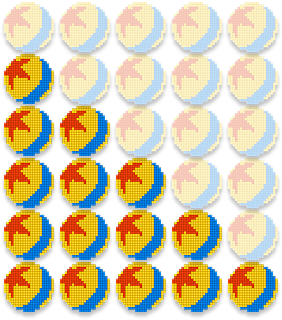
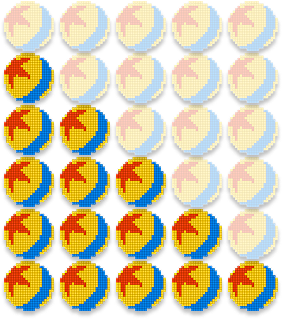
level 1 pronto

diff --git a/ToyAscension/Level1.cpp b/ToyAscension/Level1.cpp
@@ -82,8 +82,8 @@ void Level1::Init()
         scene->Add(obj, STATIC);
 
     // Player
-    buzz = new Player(true, 'R', "Resources/buzz.png", scene, this);
-    zurg = new Player(false, 'L', "Resources/zurg.png", scene, this);
+    buzz = new Player(true, 'R', "Resources/buzz.png", scene);
+    zurg = new Player(false, 'L', "Resources/zurg.png", scene);
 
     scene->Add(buzz, MOVING);
     scene->Add(zurg, MOVING);
@@ -123,8 +123,29 @@ void Level1::Init()
 
     // Tela de score
     scoreBg = new Sprite("Resources/background/backg-score.png");
-    scoreBuzz = new TileSet("Resources/background/points.png", 274, 50, 1, 6);
-    scoreZurge = new TileSet("Resources/background/points.png", 274, 50, 1, 6);
+    scoreBuzz = new TileSet("Resources/score/points.png", 274, 52, 1, 6);
+    scoreZurg = new TileSet("Resources/score/points.png", 274, 52, 1, 6);
+
+    scoreBuzzAnim = new Animation(scoreBuzz, 0.0f, false);
+    scoreZurgAnim = new Animation(scoreZurg, 0.0f, false);
+
+	scoreBuzzAnim->Add(1, new uint[1]{ 1 }, 1);
+	scoreBuzzAnim->Add(2, new uint[1]{ 2 }, 1);
+	scoreBuzzAnim->Add(3, new uint[1]{ 3 }, 1);
+	scoreBuzzAnim->Add(4, new uint[1]{ 4 }, 1);
+	scoreBuzzAnim->Add(5, new uint[1]{ 5 }, 1);
+	scoreBuzzAnim->Add(0, new uint[1]{ 0 }, 1);
+
+    scoreZurgAnim->Add(5, new uint[1]{ 5 }, 1);
+    scoreZurgAnim->Add(4, new uint[1]{ 4 }, 1);
+    scoreZurgAnim->Add(3, new uint[1]{ 3 }, 1);
+    scoreZurgAnim->Add(2, new uint[1]{ 2 }, 1);
+    scoreZurgAnim->Add(1, new uint[1]{ 1 }, 1);
+    scoreZurgAnim->Add(0, new uint[1]{ 0 }, 1);
+
+    // Zerar pontuação do ToyAscencion.h
+	ToyAscension::buzzPoints = 0;
+	ToyAscension::zurgPoints = 0;
 }
 
 // ------------------------------------------------------------------------------
@@ -163,7 +184,7 @@ void Level1::Update()
         return;
     }
 
-	if (window->KeyPress('P'))
+	if (window->KeyPress('P') || game_ended)
     {
         ToyAscension::NextLevel<GameOver>();
         return;
@@ -183,8 +204,11 @@ void Level1::Draw()
     if (ToyAscension::viewBBox)
         scene->DrawBBox();
 
-	if (paused)
+    if (paused) {
 		scoreBg->Draw(window->CenterX(), window->CenterY(), Layer::FRONT);
+        scoreBuzzAnim->Draw(697.0f, 344.0f, Layer::FRONT);
+		scoreZurgAnim->Draw(697.0f, 428.0f, Layer::FRONT);
+    }
 }
 
 // ------------------------------------------------------------------------------
@@ -208,4 +232,15 @@ void Level1::Hit() {
 
 	buzz->dead = false;
 	zurg->dead = false;
+
+	scoreBuzzAnim->Select(buzz->kill_count);
+	scoreZurgAnim->Select(zurg->kill_count);
+
+	// Atualiza pontuação no ToyAscension.h
+    ToyAscension::buzzPoints = buzz->kill_count;
+    ToyAscension::zurgPoints = zurg->kill_count;
+
+    if (buzz->kill_count == 5 || zurg->kill_count == 5){
+        game_ended = true;
+    }
 }

diff --git a/ToyAscension/Player.cpp b/ToyAscension/Player.cpp
@@ -6,15 +6,15 @@
 
 // --------------------------------------------------------------------------------
 
-Player::Player(bool keyboard, char looking_side, std::string file_name, Scene* currScene, Game* currentLevel)
+Player::Player(bool keyboard, char initial_side, std::string file_name, Scene* currScene)
 {
 	this->currentScene = currScene;
-	this->currentLevel = currentLevel;
 
 	barrier = new Sprite("Resources/Barrier.png");
 	// Parametrization setup
 	this->keyboard = keyboard;
-	this->looking_side = looking_side;
+	this->looking_side = initial_side;
+	this->initial_side = initial_side;
 
 	if (!keyboard) {
 		// Controller
@@ -57,8 +57,8 @@ Player::Player(bool keyboard, char looking_side, std::string file_name, Scene* c
 
 	BBox(new Poly(playerVertexs, 4));
 
-	if (looking_side == 'L') {
-		MoveTo(700.0f, 400.0f, Layer::FRONT);
+	if (initial_side == 'L') {
+		MoveTo(750.0f, 400.0f, Layer::FRONT);
 		anim->Select(IDLE_RIGHT);
 	}
 	else {
@@ -95,16 +95,14 @@ Player::~Player()
 void Player::Reset()
 {
     // volta ao estado inicial
-	if (looking_side == 'L') {
-		MoveTo(700.0f, 400.0f, Layer::FRONT);
+	if (initial_side == 'L') {
+		MoveTo(750.0f, 400.0f, Layer::FRONT);
 		anim->Select(IDLE_RIGHT);
 	}
 	else {
 		MoveTo(565.0f, 400.0f, Layer::FRONT);
 		anim->Select(IDLE_LEFT);
 	}
-
-	paused = true;
 }
 
 // ---------------------------------------------------------------------------------
@@ -115,6 +113,8 @@ void Player::OnCollision(Object* obj)
 		OutputDebugString("Player hit by projectile!\n");
 		if (shield) {
 			shield = false;
+			Projectile* projectile = static_cast<Projectile*>(obj);
+			currentScene->Delete(projectile, MOVING);
 		}
 		else {
 			Projectile* projectile = static_cast<Projectile*>(obj);
@@ -381,26 +381,23 @@ void Player::Update()
 
 			BBox(new Poly(playerVertexs, 4));
 		}
-
-		anim->NextFrame();
-
-		
 	}
-// Teletransporte horizontal do player
-		if (X() < -20) {
-			MoveTo(1300, Y()); // Saiu pela esquerda, aparece à direita
+
+	// Teletransporte horizontal do player
+	if (X() < -20) {
+		MoveTo(1300, Y()); // Saiu pela esquerda, aparece à direita
+	}
+	else if (X() > 1300) {
+		if (Y() > 800) {
+			MoveTo(0, Y() - 120); // Saiu pela direita, aparece à esquerda
 		}
-		else if (X() > 1300) {
-			if (Y() > 800) {
-				MoveTo(0, Y() - 120); // Saiu pela direita, aparece à esquerda
-			}
-			else {
-				MoveTo(0, Y()); // Saiu pela direita, aparece à esquerda
-			}
+		else {
+			MoveTo(0, Y()); // Saiu pela direita, aparece à esquerda
+		}
 			
-		}
+	}
 
-
+	anim->NextFrame();
 }
 
 // ---------------------------------------------------------------------------------

diff --git a/ToyAscension/GameOver.cpp b/ToyAscension/GameOver.cpp
@@ -13,10 +13,12 @@ void GameOver::Init()
 	font = new Font("Resources/font/Tahoma14.png");
 	font->Spacing("Resources/font/Tahoma14.dat");
 
-	buzz = 5;
-	zurg = 2;
+	buzzPoints = ToyAscension::buzzPoints;
+	zurgPoints = ToyAscension::zurgPoints;
+	buzzPowers = ToyAscension::buzzPower;
+	zurgPowers = ToyAscension::zurgPower;
 
-	if (buzz > zurg) {
+	if (buzzPoints > zurgPoints) {
 		backg = new Sprite("Resources/score/buzz-wins.png");
 	}
 	else {
@@ -30,8 +32,8 @@ void GameOver::Init()
 void GameOver::Update()
 {
 	if (window->KeyPress(VK_ESCAPE)) {
-		//ToyAscension::NextLevel<Home>();
-		Engine::Next<Home>();
+		ToyAscension::NextLevel<Home>();
+		//Engine::Next<Home>();
 		return;
 	}
 }
@@ -43,9 +45,11 @@ void GameOver::Draw()
 	Color white{ 1.0f, 1.0f, 1.0f, 1.0f };
 
 	backg->Draw(window->CenterX(), window->CenterY(), Layer::BACK);
-	font->Draw(559, 505, std::to_string(buzz), white, Layer::FRONT, 1.5f);
-	font->Draw(895, 505, std::to_string(zurg), white, Layer::FRONT, 1.5f);
+	font->Draw(545, 505, std::to_string(buzzPoints), white, Layer::FRONT, 1.5f);
+	font->Draw(880, 505, std::to_string(zurgPoints), white, Layer::FRONT, 1.5f);
 
+	font->Draw(575, 550, std::to_string(buzzPowers), white, Layer::FRONT, 1.5f);
+	font->Draw(915, 550, std::to_string(zurgPowers), white, Layer::FRONT, 1.5f);
 }
 
 void GameOver::Finalize()

diff --git a/ToyAscension/ToyAscension.cpp b/ToyAscension/ToyAscension.cpp
@@ -22,6 +22,11 @@ Font* ToyAscension::font = nullptr;            // fonte para texto
 TileSet* ToyAscension::exploSet = nullptr; // explosao
 bool ToyAscension::viewBBox = false;              // estado da bounding box
 
+uint ToyAscension::buzzPoints = 0; // pontuação do buzz
+uint ToyAscension::zurgPoints = 0; // pontuação do zurg
+uint ToyAscension::buzzPower = 0; // power up do buzz
+uint ToyAscension::zurgPower = 0; // power up do zurg
+
 int windowWidth = GetSystemMetrics(SM_CXSCREEN);  // largura da janela
 int windowHeight = GetSystemMetrics(SM_CYSCREEN); // altura da janela
 
@@ -90,7 +95,7 @@ int APIENTRY WinMain(_In_ HINSTANCE hInstance, _In_opt_ HINSTANCE hPrevInstance,
     Engine* engine = new Engine();
 
     // configura motor
-    //engine->window->Mode(WINDOWED);
+    engine->window->Mode(WINDOWED);
     engine->window->Size(1280,1024);
     engine->window->Color(25, 25, 25);
     engine->window->Title("ToyAscension");

diff --git a/ToyAscension/Level1.h b/ToyAscension/Level1.h
@@ -26,10 +26,14 @@ class Level1 : public Game
 {
 private:
     TileSet* tileset = nullptr;    // tileset da animação
-	TileSet* scoreBuzz = nullptr;    // tileset do score do buzz
-	TileSet* scoreZurge = nullptr;   // tileset do score do zurg
 
+	TileSet* scoreBuzz = nullptr;    // tileset do score do buzz
+	TileSet* scoreZurg = nullptr;   // tileset do score do zurg
+    
     Animation* anim = nullptr;     // animação do menu
+    Animation* scoreBuzzAnim = nullptr;
+    Animation* scoreZurgAnim = nullptr;
+
 	Sprite* backg = nullptr;       // pano de fundo estatico
     Sprite* scoreBg;
     Platform* platform = nullptr;
@@ -40,6 +44,7 @@ private:
 	Item* item3 = nullptr;
 
     bool paused = true;
+    bool game_ended = false;
 
 public:
     static Player* buzz;

diff --git a/ToyAscension/Player.h b/ToyAscension/Player.h
@@ -31,7 +31,10 @@ private:
 	bool jumping = false;            // se o player está pulando
 	bool crouching = false;           // se o player está agachado
     bool shooting = false;
+
+    char initial_side;
     char looking_side;                  // L ou R
+    
     float jump_factor = JUMP;
     char jump_count = 0;
     bool started = false;
@@ -69,8 +72,9 @@ public:
 
 	uint kill_count = 0;            // contador de inimigos mortos
     uint death_count = 0;
+    uint power_count = 0;
 
-    Player(bool, char, std::string, Scene* currScene, Game* currentLevel);
+    Player(bool, char, std::string, Scene*);
     ~Player();
 
     void Update();                      // atualização

diff --git a/ToyAscension/GameOver.h b/ToyAscension/GameOver.h
@@ -21,10 +21,13 @@ private:
     Scene* scene = nullptr;        // gerenciador de cena
     Font* font = nullptr;
 
-public:
-    int buzz = 5;
-    int zurg = 3;
+	uint buzzPoints = 0;
+	uint zurgPoints = 0;
 
+    uint buzzPowers = 0;
+	uint zurgPowers = 0;
+
+public:
     void Init(); // construtor com pontua����es
     void Update();                  // atualiza l�gica do jogo
     void Draw();                    // desenha jogo

diff --git a/ToyAscension/ToyAscension.h b/ToyAscension/ToyAscension.h
@@ -39,6 +39,13 @@ private:
     Item* item = nullptr;
    
 public:
+    // Pontuacao
+	static uint buzzPoints;           
+	static uint buzzPower;         
+
+	static uint zurgPoints;         
+	static uint zurgPower;         
+
     static TileSet* exploSet;      // tileset da explosão
     static Audio* audio;           // sistema de áudio
     static bool viewBBox;           // estado da bounding box

diff --git a/ToyAscension/Item.cpp b/ToyAscension/Item.cpp
@@ -51,6 +51,7 @@ void Item::OnCollision(Object* obj) {
                 player->ricochetShot = true;
 			}
 
+            player->power_count++;
             currentScene->Delete(this, STATIC);
 		}
 
